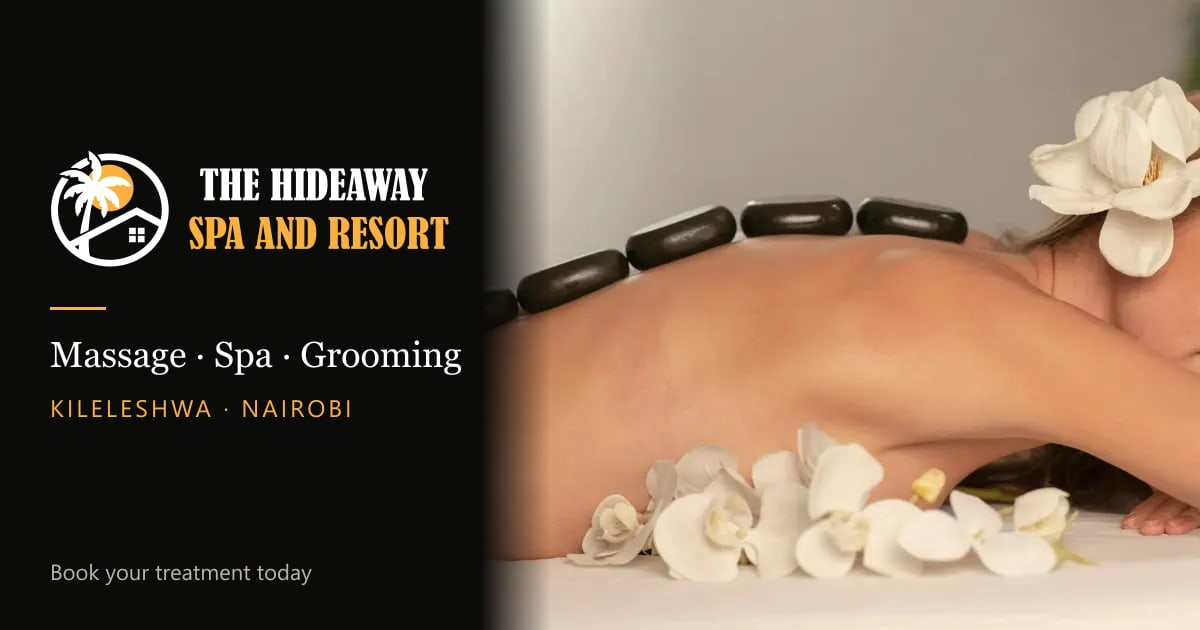
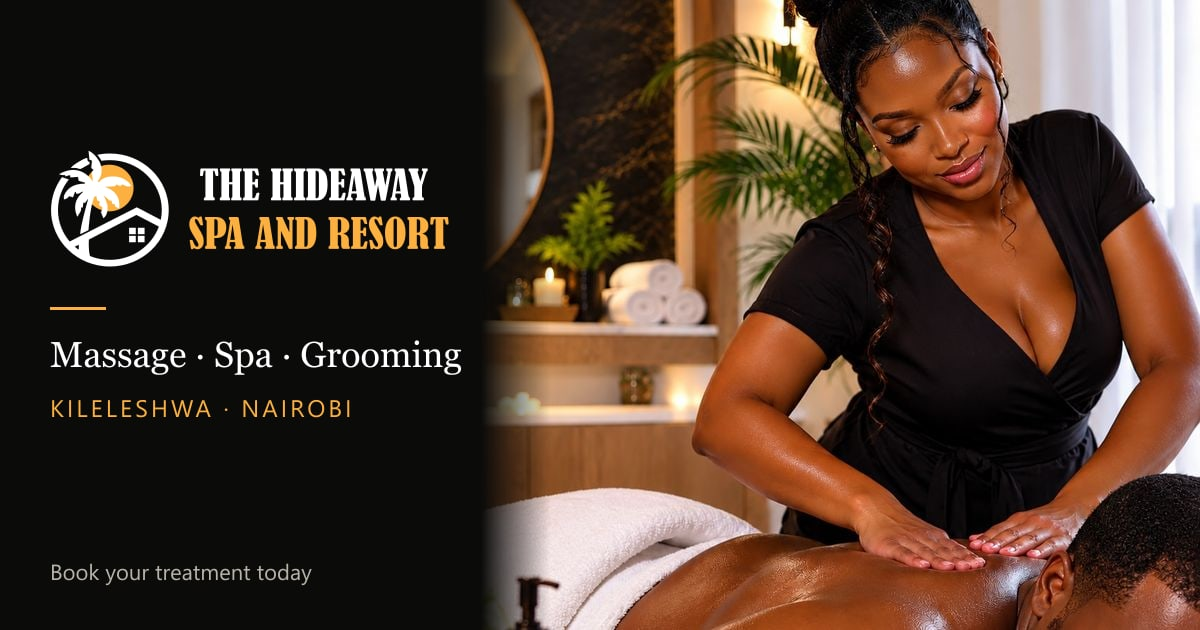
Homepage hero: new spa massage photo, shown full-bleed on phones and tablets and at its own portrait shape beside the text on wide screens (never stretched); the link-sharing card uses the same photo

diff --git a/src/components/home/Hero.tsx b/src/components/home/Hero.tsx
@@ -3,88 +3,120 @@ import Image from "next/image";
 import Link from "next/link";
 import { ArrowDownRight } from "lucide-react";
 
+const HERO_SRC = "/images/hero-spa-massage.jpg";
+const HERO_ALT = "A therapist giving a relaxing back massage at The Hideaway Spa and Resort";
+// Same sizes on both sharp copies, so the browser downloads the photo only once.
+const HERO_SIZES = "(min-width: 1024px) 480px, 100vw";
+
 export default function Hero() {
   return (
     <section
       id="home"
       className="bg-[#0b0b0a] pt-17 sm:pt-20 lg:pt-22"
     >
-      {/* The image starts below the fixed navbar so the logo never sits on it. */}
-      <div className="relative flex min-h-[60svh] flex-col overflow-hidden">
-        {/* Background Image */}
+      {/* The image starts below the fixed navbar so the logo never sits on it.
+          The photo is portrait (2:3). Phones and tablets show it full-bleed; wide
+          screens show it at its own shape on the right, over a soft blurred copy,
+          so it is never stretched or blown up past its real size. */}
+      <div className="relative flex min-h-[72svh] flex-col overflow-hidden sm:min-h-[64svh] lg:min-h-0">
+        {/* Phones and tablets: full-bleed, faces kept in frame */}
         <Image
-          src="/images/hero2.png"
-          alt="Executive Hideaway Resort & Spa"
+          src={HERO_SRC}
+          alt={HERO_ALT}
           fill
           priority
-          sizes="100vw"
-          className="object-cover object-center"
+          sizes={HERO_SIZES}
+          className="object-cover object-[50%_28%] lg:hidden"
+        />
+
+        {/* Wide screens: blurred ambient fill behind the content */}
+        <Image
+          src={HERO_SRC}
+          alt=""
+          aria-hidden
+          fill
+          sizes="96px"
+          className="hidden scale-110 object-cover opacity-45 blur-2xl lg:block"
         />
 
         {/* Image treatment */}
-        <div className="absolute inset-0 bg-black/10" />
+        <div className="absolute inset-0 bg-black/10 lg:bg-[#0b0b0a]/55" />
 
-        <div className="absolute inset-0 bg-linear-to-b from-black/35 via-transparent via-45% to-[#0b0b0a]/85" />
+        <div className="absolute inset-0 bg-linear-to-b from-black/35 via-transparent via-40% to-[#0b0b0a]/90 lg:bg-linear-to-r lg:from-[#0b0b0a]/80 lg:via-[#0b0b0a]/30 lg:to-transparent" />
 
         {/* Hero Content */}
-        <div className="relative z-10 flex flex-1 flex-col justify-end px-5 pb-8 pt-12 sm:px-8 sm:pb-12 sm:pt-16 lg:px-10 lg:pb-14 lg:pt-20">
-          <div className="mx-auto w-full max-w-7xl">
-            {/* Eyebrow */}
-            <div className="mb-4 flex items-center gap-3 sm:mb-6">
-              <span className="h-px w-8 bg-(--accent)" />
+        <div className="relative z-10 flex flex-1 flex-col justify-end px-5 pb-8 pt-12 sm:px-8 sm:pb-12 sm:pt-16 lg:px-10 lg:py-12">
+          <div className="mx-auto w-full max-w-7xl lg:grid lg:grid-cols-[minmax(0,1fr)_auto] lg:items-end lg:gap-12">
+            <div>
+              {/* Eyebrow */}
+              <div className="mb-4 flex items-center gap-3 sm:mb-6">
+                <span className="h-px w-8 bg-(--accent)" />
 
-              <p className="text-[10px] font-medium uppercase tracking-[0.3em] text-(--accent-light)">
-                Resort &middot; Spa &middot; Wellness &middot; Stays
+                <p className="text-[10px] font-medium uppercase tracking-[0.3em] text-(--accent-light)">
+                  Resort &middot; Spa &middot; Wellness &middot; Stays
+                </p>
+              </div>
+
+              {/* Heading */}
+              <h1 className="max-w-5xl text-[clamp(2.25rem,8vw,5.5rem)] lg:text-[clamp(3rem,5.2vw,5.25rem)] font-light uppercase leading-[0.92] tracking-[-0.04em] text-white">
+                The Hideaway
+                <br />
+                <span className="text-white/80">Spa and Resort</span>
+              </h1>
+
+              {/* Description */}
+              <p className="mt-5 hidden max-w-md text-sm sm:block leading-6 text-white/70 sm:text-base sm:leading-7">
+                A thoughtful place to stay, unwind, enjoy resort dining, and find
+                time for wellness and grooming.
               </p>
+
+              {/* Actions */}
+              <div className="mt-6 flex flex-wrap gap-3 sm:mt-8">
+                <Link
+                  href="/booking"
+                  className="group inline-flex min-h-12 items-center justify-center gap-3 rounded-full bg-(--accent) px-5 sm:min-h-13 sm:px-7 text-[11px] font-semibold uppercase tracking-[0.18em] text-[#0b0b0a] transition-all duration-300 hover:bg-(--accent-light)"
+                >
+                  Book an Appointment
+
+                  <ArrowDownRight
+                    size={16}
+                    strokeWidth={1.8}
+                    className="transition-transform duration-300 group-hover:translate-x-0.5 group-hover:translate-y-0.5"
+                  />
+                </Link>
+
+                <Link
+                  href="/menu"
+                  className="inline-flex min-h-12 items-center justify-center rounded-full border border-white/25 bg-white/5 px-5 sm:min-h-13 sm:px-7 text-[11px] font-semibold uppercase tracking-[0.18em] text-white backdrop-blur-sm transition-all duration-300 hover:bg-white/10"
+                >
+                  View Resort Menu
+                </Link>
+
+                <Link
+                  href="#about"
+                  className="hidden sm:inline-flex min-h-12 items-center justify-center rounded-full border border-white/25 bg-white/5 px-5 sm:min-h-13 sm:px-7 text-[11px] font-semibold uppercase tracking-[0.18em] text-white backdrop-blur-sm transition-all duration-300 hover:bg-white/10"
+                >
+                  Explore
+                </Link>
+              </div>
             </div>
 
-            {/* Heading */}
-            <h1 className="max-w-5xl text-[clamp(2.25rem,8vw,5.5rem)] font-light uppercase leading-[0.92] tracking-[-0.04em] text-white">
-              The Hideaway
-              <br />
-              <span className="text-white/80">Spa and Resort</span>
-            </h1>
-
-            {/* Description */}
-            <p className="mt-5 hidden max-w-md text-sm sm:block leading-6 text-white/70 sm:text-base sm:leading-7">
-              A thoughtful place to stay, unwind, enjoy resort dining, and find
-              time for wellness and grooming.
-            </p>
-
-            {/* Actions */}
-            <div className="mt-6 flex flex-wrap gap-3 sm:mt-8">
-              <Link
-                href="/booking"
-                className="group inline-flex min-h-12 items-center justify-center gap-3 rounded-full bg-(--accent) px-5 sm:min-h-13 sm:px-7 text-[11px] font-semibold uppercase tracking-[0.18em] text-[#0b0b0a] transition-all duration-300 hover:bg-(--accent-light)"
-              >
-                Book an Appointment
-
-                <ArrowDownRight
-                  size={16}
-                  strokeWidth={1.8}
-                  className="transition-transform duration-300 group-hover:translate-x-0.5 group-hover:translate-y-0.5"
-                />
-              </Link>
-
-              <Link
-                href="/menu"
-                className="inline-flex min-h-12 items-center justify-center rounded-full border border-white/25 bg-white/5 px-5 sm:min-h-13 sm:px-7 text-[11px] font-semibold uppercase tracking-[0.18em] text-white backdrop-blur-sm transition-all duration-300 hover:bg-white/10"
-              >
-                View Resort Menu
-              </Link>
-
-              <Link
-                href="#about"
-                className="hidden sm:inline-flex min-h-12 items-center justify-center rounded-full border border-white/25 bg-white/5 px-5 sm:min-h-13 sm:px-7 text-[11px] font-semibold uppercase tracking-[0.18em] text-white backdrop-blur-sm transition-all duration-300 hover:bg-white/10"
-              >
-                Explore
-              </Link>
+            {/* Wide screens: the photo at its own 2:3 shape */}
+            <div className="relative hidden aspect-2/3 h-[min(78svh,44rem)] overflow-hidden rounded-2xl ring-1 ring-white/10 shadow-[0_40px_80px_-30px_rgba(0,0,0,0.8)] lg:block">
+              <Image
+                src={HERO_SRC}
+                alt={HERO_ALT}
+                fill
+                priority
+                sizes={HERO_SIZES}
+                className="object-cover"
+              />
             </div>
           </div>
         </div>
 
         {/* Bottom information */}
-        <div className="absolute bottom-6 left-5 right-5 z-10 hidden items-end justify-end sm:flex lg:left-10 lg:right-10">
+        <div className="absolute bottom-6 left-5 right-5 z-10 hidden items-end justify-end sm:flex lg:hidden">
 
           <div className="flex items-center gap-3">
             <span className="text-[9px] uppercase tracking-[0.3em] text-white/40">
